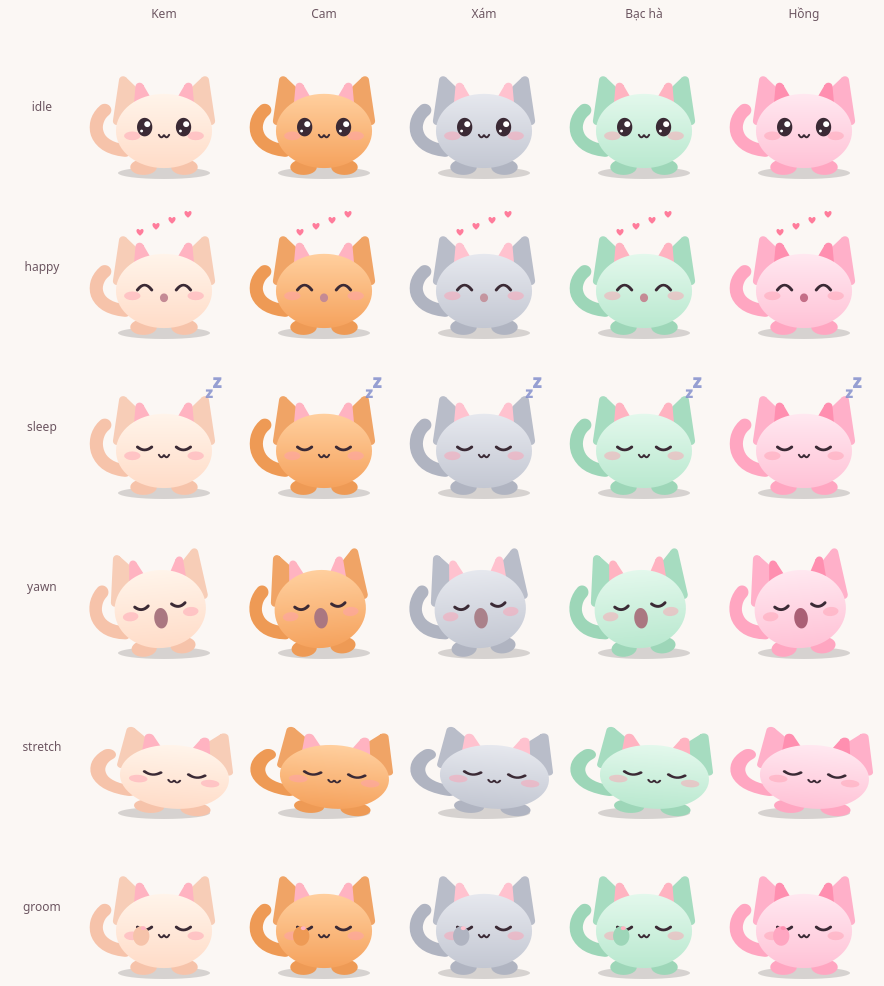
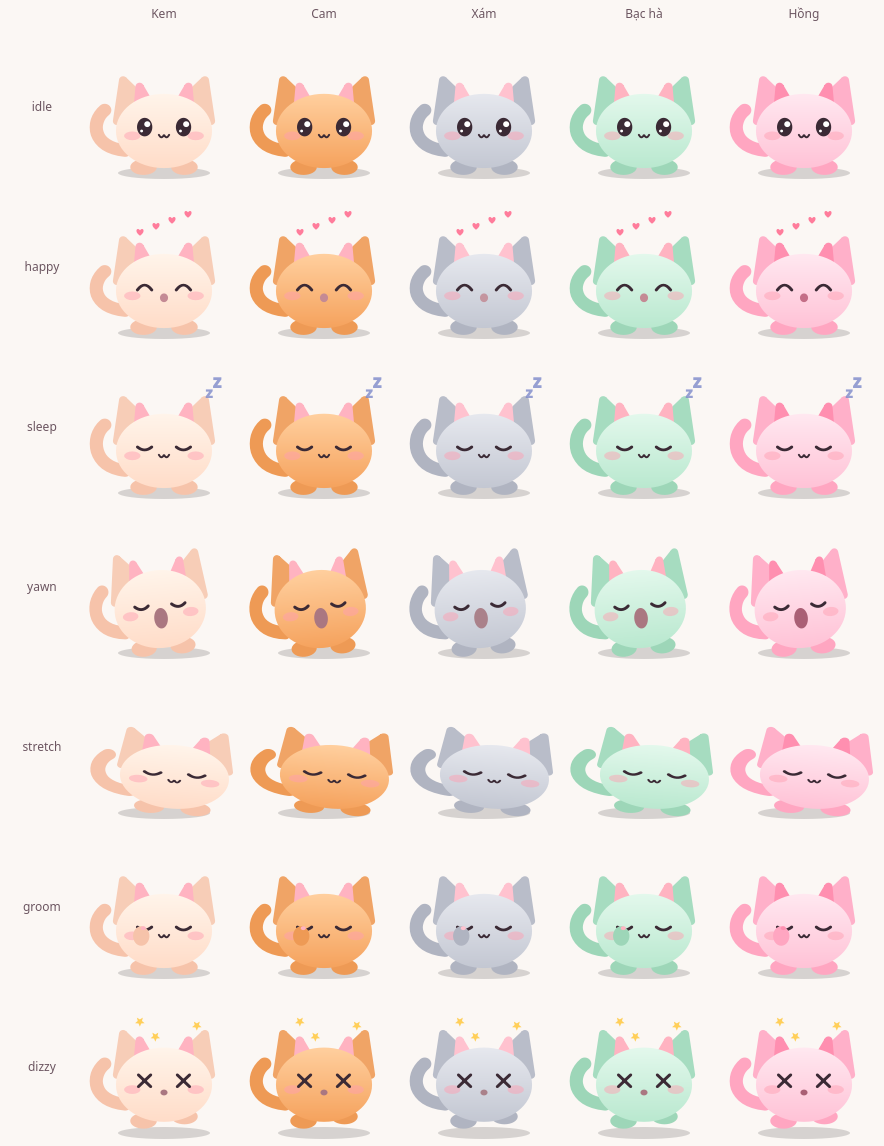
Dizzy after a hard hit: X eyes, orbiting stars, a staggering walk
- Expression.DIZZY is triggered by an impact >= 2000 px/s. Free falls are
  capped at 1800 px/s, so only throws can do it; drops and spawn never do
- It is set while still AIRBORNE (independent axes); on landing the pet gets
  up as WALK+DIZZY, staggers at half speed, never hops off an edge or onto a
  window, then returns to normal after 3.5 s
- Renderer: X eyes, small mouth, three stars circling the head; the preview
  gains a dizzy row. Existing states are unchanged (480 golden frames identical)

Tests: dizzy-then-recover timeline, gentle throws and every normal fall stay
non-dizzy, dizzy walker turns back at window edges, 20 random long staggers
stay on the window (measured: 0 falls in 600 runs, so no extra clamp).

diff --git a/tests/test_pet.py b/tests/test_pet.py
@@ -131,12 +131,22 @@ def test_throw_above_threshold_keeps_velocity(pet):
 
 def test_thrown_pet_stays_on_screen_and_settles(pet):
     g = pet.screen_geo()
-    in_air(pet, g.left + 100, g.top + 100, 2600, -300)
+    in_air(pet, g.left + 100, g.top + 100, 1200, -300)                  # a firm throw, below the dizzy threshold
     for _ in range(2400):
         pet.tick()
         assert g.left - WALL_PAD <= pet.px <= g.right - S + WALL_PAD
         if pet.state.motion is not Motion.AIRBORNE: break
     assert pet.state.motion is Motion.IDLE and pet.py == floor_y(pet) and (pet.vx, pet.vy) == (0.0, 0.0)
+
+
+def test_the_hardest_throw_stays_on_screen_and_lands_dizzy(pet):
+    g = pet.screen_geo()
+    in_air(pet, g.left + 100, g.top + 100, 2600, -300)
+    for _ in range(2400):
+        pet.tick()
+        assert g.left - WALL_PAD <= pet.px <= g.right - S + WALL_PAD
+        if pet.state.motion is not Motion.AIRBORNE: break
+    assert pet.state == State(Motion.WALK, Expression.DIZZY) and pet.py == floor_y(pet)
 
 
 def test_pet_thrown_sideways_along_the_floor_still_lands(pet):
@@ -167,3 +177,79 @@ def test_release_uses_the_drag_history(pet, monkeypatch):
         pet.mouseMoveEvent(ev(QEvent.MouseMove, 100 + 20 * i, 100))
     pet.mouseReleaseEvent(ev(QEvent.MouseButtonRelease, 200, 100))
     assert pet.state.motion is Motion.AIRBORNE and pet.vx == pytest.approx(1000) and pet.vy == pytest.approx(0)
+
+
+# ---- dizzy ------------------------------------------------------------------------------------------------
+from mochi.physics import IMPACT_DIZZY  # noqa: E402
+from mochi.state import Expression  # noqa: E402
+
+
+def run_until(pet, cond, frames=3000):
+    for i in range(frames):
+        pet.tick()
+        if cond(): return i
+    raise AssertionError("condition never met")
+
+
+def test_a_hard_throw_into_a_wall_makes_the_pet_dizzy_and_it_recovers(pet):
+    g = pet.screen_geo()
+    in_air(pet, g.left + 300, g.top + 200, 2600, 0)
+    assert IMPACT_DIZZY < 2600
+    run_until(pet, lambda: pet.state.expression is Expression.DIZZY)          # hit the right wall
+    assert pet.state.motion is Motion.AIRBORNE                                 # dizzy while still in the air: independent axes
+    run_until(pet, lambda: pet.state.motion is Motion.WALK)                    # lands, gets up and staggers
+    assert pet.state.expression is Expression.DIZZY and pet.grounded
+    run_until(pet, lambda: pet.state.expression is Expression.NORMAL)
+    assert pet.state == State() and pet.t > 3                                  # ~3.5 s later it is back to normal
+
+
+def test_gentle_throws_and_normal_falls_do_not_make_it_dizzy(pet):
+    g = pet.screen_geo()
+    for vx, vy in [(0, 0), (500, -200), (900, 0), (-700, -300)]:
+        in_air(pet, g.left + 300, g.top - 100, vx, vy)
+        pet.enter(State(Motion.AIRBORNE))
+        for _ in range(3000):
+            pet.tick()
+            assert pet.state.expression is Expression.NORMAL, (vx, vy)
+            if pet.state.motion is not Motion.AIRBORNE: break
+
+
+def test_a_fall_from_the_very_top_is_below_the_dizzy_threshold(pet):
+    g = pet.screen_geo()
+    in_air(pet, g.left + 300, g.top - 100, 0, 0)
+    peak = 0.0
+    for _ in range(3000):
+        pet.tick(); peak = max(peak, pet.vy)
+        if pet.state.motion is not Motion.AIRBORNE: break
+    assert peak < IMPACT_DIZZY
+
+
+def dizzy_on_a_window(pet):
+    g = pet.screen_geo()
+    top, x, w = g.top + 300, g.left + 100, 300
+    pet.wins = {"w": (x, top, w, 200)}
+    pet.px, pet.py, pet.support, pet.vx, pet.vy = x + w - 36 - S / 2, top - FEET, "w", 0.0, 0.0    # just inside the right edge
+    pet.enter(State(Motion.WALK, Expression.DIZZY))
+    pet.facing = 1
+
+
+def test_dizzy_walker_turns_back_at_a_window_edge_instead_of_hopping_off(pet, monkeypatch):
+    import mochi.pet as mp
+    dizzy_on_a_window(pet)
+    monkeypatch.setattr(mp.random, "random", lambda: 0.0)                       # would always hop for a healthy walker
+    for _ in range(120):
+        pet.tick()
+        assert pet.support == "w" and pet.vx == 0.0, "a dizzy pet must not jump off"
+
+
+def test_dizzy_sway_never_carries_the_pet_off_the_window(pet):
+    """the sway is about +-6 px against a 10 px margin between the walking range and the window edge (measured: 0 falls in 600 runs)"""
+    import random
+    random.seed(3)
+    g = pet.screen_geo()
+    for _ in range(20):                                                        # many staggers, each lasting the full 3.5 s
+        dizzy_on_a_window(pet)
+        pet.px = g.left + 100 + random.uniform(60, 240) - S / 2                # anywhere along the window top
+        for _ in range(int(3.4 / 0.033)):
+            pet.tick()
+            assert pet.support == "w" and pet.grounded, "staggered off the window"

diff --git a/mochi/renderer.py b/mochi/renderer.py
@@ -23,6 +23,15 @@ def heart(s):
     return p
 
 
+def star(r):
+    p = QPainterPath()
+    for i in range(10):
+        a, rr = -math.pi / 2 + i * math.pi / 5, r if i % 2 == 0 else r * .45
+        p.lineTo(rr * math.cos(a), rr * math.sin(a)) if i else p.moveTo(rr * math.cos(a), rr * math.sin(a))
+    p.closeSubpath()
+    return p
+
+
 def silhouette(f, sleep, stretch, hearts):
     """Region of the pet window that should catch clicks; the rest is click-through. f = -facing."""
     c = S // 2
@@ -43,6 +52,7 @@ def paint(pet, p):
     t, state = pet.t, pet.state
     motion, act = state.motion, state.action
     happy, sleep, drag = state.expression is Expression.HAPPY, motion is Motion.SLEEP, motion is Motion.DRAG
+    dizzy = state.expression is Expression.DIZZY
     walking = motion is Motion.WALK and act is Action.NONE          # a chase runs, it doesn't use the walk cycle
     up = motion in (Motion.AIRBORNE, Motion.DRAG)
     th = THEMES[pet.theme]
@@ -101,7 +111,9 @@ def paint(pet, p):
     lx, ly = max(-1, min(1, cur.x() / 250)) * -2.5 * pet.facing, max(-1, min(1, cur.y() / 250)) * 1.5
     pen = QPen(DARK, 3, Qt.SolidLine, Qt.RoundCap)
     for x in (-19, 19):
-        if sleep or act in (Action.YAWN, Action.STRETCH, Action.GROOM) or pet.blink > 0:
+        if dizzy:                                                          # X eyes
+            arc = QPainterPath(QPointF(x - 6, -52)); arc.lineTo(x + 6, -40); arc.moveTo(x + 6, -52); arc.lineTo(x - 6, -40)
+        elif sleep or act in (Action.YAWN, Action.STRETCH, Action.GROOM) or pet.blink > 0:
             arc = QPainterPath(QPointF(x - 7, -46)); arc.quadTo(x, -40, x + 7, -46)
         elif happy:
             arc = QPainterPath(QPointF(x - 7, -43)); arc.quadTo(x, -53, x + 7, -43)
@@ -113,6 +125,7 @@ def paint(pet, p):
         p.setPen(pen); p.setBrush(Qt.NoBrush); p.drawPath(arc)
     if drag: blob(DARK, 0, -35, 3, 4)
     elif happy: blob(PINK.darker(130), 0, -35, 4, 4.5)
+    elif dizzy: blob(PINK.darker(150), 0, -34, 3.5, 3)
     elif act is Action.YAWN: blob(PINK.darker(150), 0, -33, 4 + 3 * o, 2 + 8 * o)
     else:
         mouth = QPainterPath(QPointF(-5, -38)); mouth.quadTo(-2.5, -33, 0, -38); mouth.quadTo(2.5, -33, 5, -38)
@@ -132,6 +145,11 @@ def paint(pet, p):
             f.setPointSizeF(9 + ph * 7); p.setFont(f)
             p.setPen(QColor(122, 134, 201, int(math.sin(ph * math.pi) * 230)))
             p.drawText(QPointF(34 + ph * 22, -84 - ph * 30), "z")
+    if dizzy:                                                          # stars circling the head
+        p.setPen(Qt.NoPen); p.setBrush(QColor("#ffcf5a"))
+        for i in range(3):
+            a = t * 5 + i * 2.094
+            p.save(); p.translate(34 * math.cos(a), -104 + 9 * math.sin(a)); p.rotate(t * 90); p.drawPath(star(5)); p.restore()
     for x, y, life in pet.hearts:
         p.setPen(Qt.NoPen); p.setBrush(QColor(255, 111, 145, int(min(1, life) * 230)))
         p.save(); p.translate(x, y); p.drawPath(heart(5 + 3 * math.sin(life * 6))); p.restore()

diff --git a/mochi/pet.py b/mochi/pet.py
@@ -8,7 +8,7 @@ from PySide6.QtGui import QCursor, QGuiApplication, QPainter
 from PySide6.QtWidgets import QApplication, QMenu, QWidget
 
 from . import autostart, physics
-from .physics import FEET, S, THROW_MIN, WALK_SPEED, Bounds, DragTracker
+from .physics import FEET, IMPACT_DIZZY, S, THROW_MIN, WALK_SPEED, Bounds, DragTracker
 from .renderer import THEMES, paint, silhouette
 from .settings import Settings
 from .state import Action, Expression, Motion, State, after, ends_at
@@ -73,6 +73,8 @@ class Pet(QWidget):
                 f = physics.step_air(self.px, self.py, self.vx, self.vy, dt, floor, g)
                 self.px, self.py, self.vx, self.vy = f.x, f.y, f.vx, f.vy
                 if f.hit: self.squash = 0.3
+                if f.impact >= IMPACT_DIZZY and self.state.motion is Motion.AIRBORNE and self.state.expression is Expression.NORMAL:
+                    self.enter(State(Motion.AIRBORNE, Expression.DIZZY))
                 if f.landed:
                     self.support, self.grounded = wid, True
                     self.land()
@@ -101,7 +103,8 @@ class Pet(QWidget):
     def land(self):
         """the pet came to rest on a surface: an AIRBORNE fall ends (a walker that hopped keeps walking)"""
         if self.state.motion is Motion.AIRBORNE:
-            self.enter(State())
+            dizzy = self.state.expression is Expression.DIZZY            # a hard landing: get up and stagger about
+            self.enter(State(Motion.WALK, Expression.DIZZY) if dizzy else State())
 
     def chase(self, dt, g, cx, wid):
         lo, hi = physics.span(self.wins, g, wid)
@@ -113,14 +116,18 @@ class Pet(QWidget):
         self.px += self.facing * 2 * WALK_SPEED * dt
 
     def walk(self, dt, g, cx, wid):
+        dizzy = self.state.expression is Expression.DIZZY
         step = self.facing * WALK_SPEED * dt
+        if dizzy:                                                                # half speed, swaying, changing its mind
+            step = step / 2 + math.sin(self.t * 7) * 40 * dt
+            if random.random() < 0.02: self.facing = -self.facing
         self.px += step; cx += step
         lo, hi = physics.span(self.wins, g, wid)
-        if wid is None and random.random() < 0.004:                              # on the floor: sometimes hop onto a nearby window
+        if wid is None and not dizzy and random.random() < 0.004:                              # floor: sometimes hop onto a window
             self.hop_to(cx, self.py + FEET, g)
         if cx < lo or cx > hi:
             out = -1 if cx < lo else 1
-            if wid is not None and random.random() < 0.4:          # hop off the window edge
+            if wid is not None and not dizzy and random.random() < 0.4:      # hop off the window edge
                 self.facing, self.vx, self.vy, self.support = out, out * 140, -260, None
             else:
                 self.facing = -out

diff --git a/mochi/state.py b/mochi/state.py
@@ -50,8 +50,10 @@ _NEXT = {(Motion.IDLE, Action.NONE): 4, (Motion.WALK, Action.NONE): 3, (Motion.S
 
 def duration(s):
     """(min, max) seconds before `s` ends by itself, or None when it lasts until something else happens"""
+    if s.motion in (Motion.AIRBORNE, Motion.DRAG): return None      # these end when the pet lands / is let go
     if s.action in _ACTION_SECS: return _ACTION_SECS[s.action]
     if s.expression is Expression.HAPPY: return (1.4, 1.4)
+    if s.expression is Expression.DIZZY: return (3.5, 3.5)
     return _MOTION_SECS.get(s.motion)
 
 
@@ -64,7 +66,7 @@ def pick_next(s, rng=random):
 
 def after(s, rng=random):
     """the state that follows `s` once its timer runs out"""
-    if s.expression is Expression.HAPPY: return State()
+    if s.expression in (Expression.HAPPY, Expression.DIZZY): return State()
     if s.action is Action.YAWN: return State(rng.choice((Motion.SLEEP, Motion.IDLE)))    # a yawn often ends in a nap
     return pick_next(s, rng)
 

diff --git a/mochi/physics.py b/mochi/physics.py
@@ -12,6 +12,7 @@ WALL_PAD = 40                       # how far the window may overhang the screen
 HEAD_ROOM = 40                      # window-y of the top of the ears: the ceiling is b.top - HEAD_ROOM
 BOUNCE_X, BOUNCE_Y = 0.55, 0.35     # fraction of normal speed kept after hitting a wall / ceiling / floor
 FLOOR_FRICTION = 0.7                # sideways speed kept per floor bounce
+IMPACT_DIZZY = 2000               # a hit harder than this (px/s, normal component) leaves the pet dizzy; free falls stay below it
 REST_VY = 150                       # a floor bounce slower than this doesn't happen: the pet just settles
 # --- throwing: release velocity from the last few mouse samples ---------------------------------------------
 VEL_WINDOW = 0.12                   # only samples this recent (s) count: a mouse that stopped before release is a drop

diff --git a/tests/test_state.py b/tests/test_state.py
@@ -52,3 +52,14 @@ def test_after_ordinary_state_changes_behaviour():
 def test_ends_at():
     assert ends_at(State(Motion.DRAG), 5.0) == math.inf
     assert all(7.0 <= ends_at(State(), 5.0, RNG) <= 10.0 for _ in range(50))
+
+
+def test_dizzy_lasts_a_few_seconds_then_returns_to_normal():
+    assert duration(State(Motion.WALK, Expression.DIZZY)) == (3.5, 3.5)
+    assert after(State(Motion.WALK, Expression.DIZZY), RNG) == State()
+
+
+def test_airborne_and_drag_never_time_out_even_when_dizzy():
+    assert duration(State(Motion.AIRBORNE, Expression.DIZZY)) is None
+    assert duration(State(Motion.DRAG, Expression.DIZZY)) is None
+    assert ends_at(State(Motion.AIRBORNE, Expression.DIZZY), 3.0) == math.inf

diff --git a/scripts/make_preview.py b/scripts/make_preview.py
@@ -15,7 +15,8 @@ from mochi.renderer import THEMES, paint  # noqa: E402
 from mochi.state import Action, Expression, Motion, State  # noqa: E402
 
 POSES = [("idle", State()), ("happy", State(expression=Expression.HAPPY)), ("sleep", State(Motion.SLEEP)),
-         ("yawn", State(action=Action.YAWN)), ("stretch", State(action=Action.STRETCH)), ("groom", State(action=Action.GROOM))]
+         ("yawn", State(action=Action.YAWN)), ("stretch", State(action=Action.STRETCH)), ("groom", State(action=Action.GROOM)),
+         ("dizzy", State(Motion.WALK, Expression.DIZZY))]
 LABEL, HEAD = 84, 26
 
 app = QApplication([])

diff --git a/README.md b/README.md
@@ -2,7 +2,7 @@
 
 **Mochi** — một pet desktop nhỏ, nhẹ, vẽ hoàn toàn bằng vector (không cần sprite), dành cho KDE Plasma.
 
-![Mochi: 5 màu, 6 tư thế](docs/preview.png)
+![Mochi: 5 màu, 7 tư thế](docs/preview.png)
 
 *Ảnh trên do chính bộ vẽ của Mochi render ra (không phải ảnh chụp màn hình). GIF quay từ màn hình thật: chưa có.*
 
@@ -11,6 +11,7 @@
 - Đi lại, ngồi, ngủ (có Zzz), chớp mắt, mắt nhìn theo con trỏ chuột
 - Tự chọn ngẫu nhiên các động tác: ngáp, vươn vai, liếm chân, và chạy đuổi theo con trỏ
 - Kéo thả để nhấc lên, thả ra thì rơi; bấm vào thì nhảy lên và bay trái tim
+- Ném được: hất chuột nhanh rồi thả, pet bay theo vận tốc, nảy khỏi cạnh màn hình/trần/sàn và mất dần năng lượng. Va rất mạnh thì chóng mặt (mắt chữ X, sao quay quanh đầu) và đi loạng choạng vài giây
 - Đứng và đi trên đỉnh các cửa sổ (đi theo khi bạn kéo cửa sổ), thỉnh thoảng nhảy lên cửa sổ gần đó; không đứng trên cửa sổ đang bị cửa sổ khác che
 - Click xuyên qua phần trong suốt quanh pet
 - 5 màu (Kem, Cam, Xám, Bạc hà, Hồng), được nhớ cho lần chạy sau
